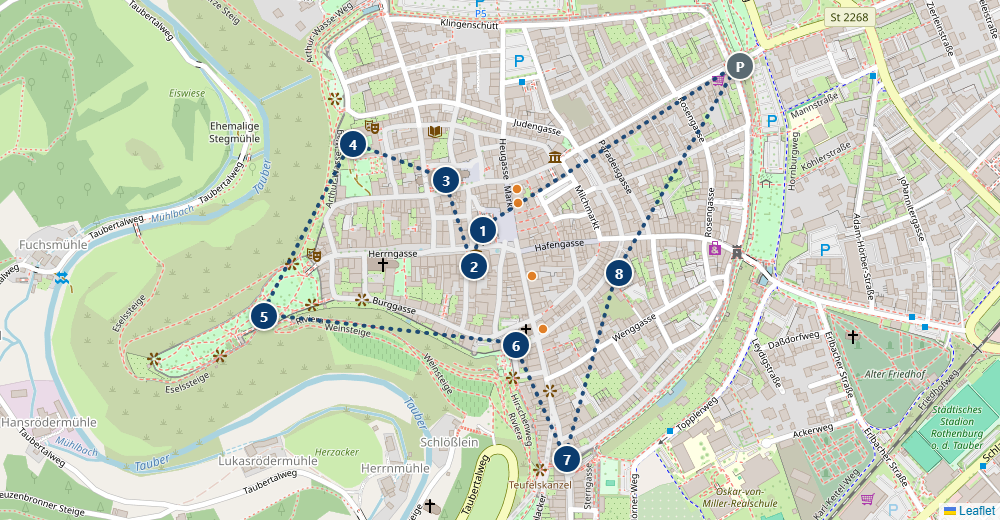
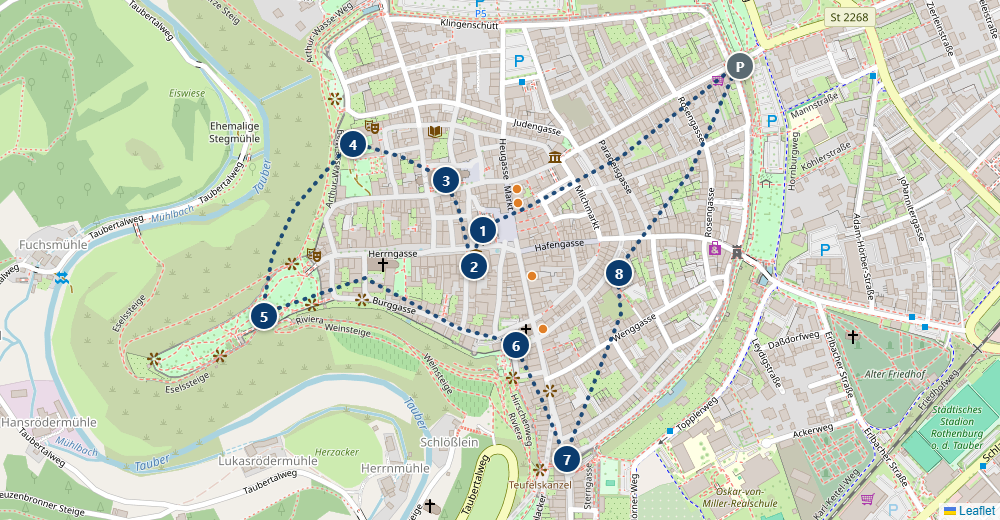
Redraw Rothenburg walking route to follow real streets instead of straight lines
Traced waypoints along the actual old-town lanes (Hafengasse/Markt,
Klingengasse, Klosterhof, Klingentor/Burggasse along the wall,
Spitalgasse to Ploenlein, Wenggasse/Roedergasse back) instead of
connecting the 8 numbered stops with straight segments. Pins and
food-spot dots unchanged.

diff --git a/germany-roadtrip-planner.html b/germany-roadtrip-planner.html
@@ -1159,7 +1159,7 @@ document.addEventListener('DOMContentLoaded', function(){
       <a class="walk-map-link" href="https://www.google.com/maps/dir/?api=1&travelmode=walking&origin=49.3795,10.1840&destination=49.3795,10.1840&waypoints=49.3772%2C10.1785%7C49.3767%2C10.1783%7C49.3779%2C10.1777%7C49.3784%2C10.1757%7C49.376%2C10.1738%7C49.3756%2C10.1792%7C49.374%2C10.1803%7C49.3766,10.1814" target="_blank" rel="noopener">📍 Google 지도로 도보 코스 보기(출발·도착: P4 Galgentor 주차장) · 총 약 3.1km · 도보 약 44분</a>
       <div class="route-snapshot">
         <div class="route-snapshot-media">
-          <img src="images/routes/rothenburg.png?v=2" alt="로텐부르크 도보 코스 지도 스냅샷" loading="lazy">
+          <img src="images/routes/rothenburg.png?v=3" alt="로텐부르크 도보 코스 지도 스냅샷" loading="lazy">
         </div>
         <ol class="route-steps">
         <li class="rs-p"><span class="rs-name">성벽 구시가(Galgentor)</span></li>

diff --git a/index.html b/index.html
@@ -1159,7 +1159,7 @@ document.addEventListener('DOMContentLoaded', function(){
       <a class="walk-map-link" href="https://www.google.com/maps/dir/?api=1&travelmode=walking&origin=49.3795,10.1840&destination=49.3795,10.1840&waypoints=49.3772%2C10.1785%7C49.3767%2C10.1783%7C49.3779%2C10.1777%7C49.3784%2C10.1757%7C49.376%2C10.1738%7C49.3756%2C10.1792%7C49.374%2C10.1803%7C49.3766,10.1814" target="_blank" rel="noopener">📍 Google 지도로 도보 코스 보기(출발·도착: P4 Galgentor 주차장) · 총 약 3.1km · 도보 약 44분</a>
       <div class="route-snapshot">
         <div class="route-snapshot-media">
-          <img src="images/routes/rothenburg.png?v=2" alt="로텐부르크 도보 코스 지도 스냅샷" loading="lazy">
+          <img src="images/routes/rothenburg.png?v=3" alt="로텐부르크 도보 코스 지도 스냅샷" loading="lazy">
         </div>
         <ol class="route-steps">
         <li class="rs-p"><span class="rs-name">성벽 구시가(Galgentor)</span></li>
